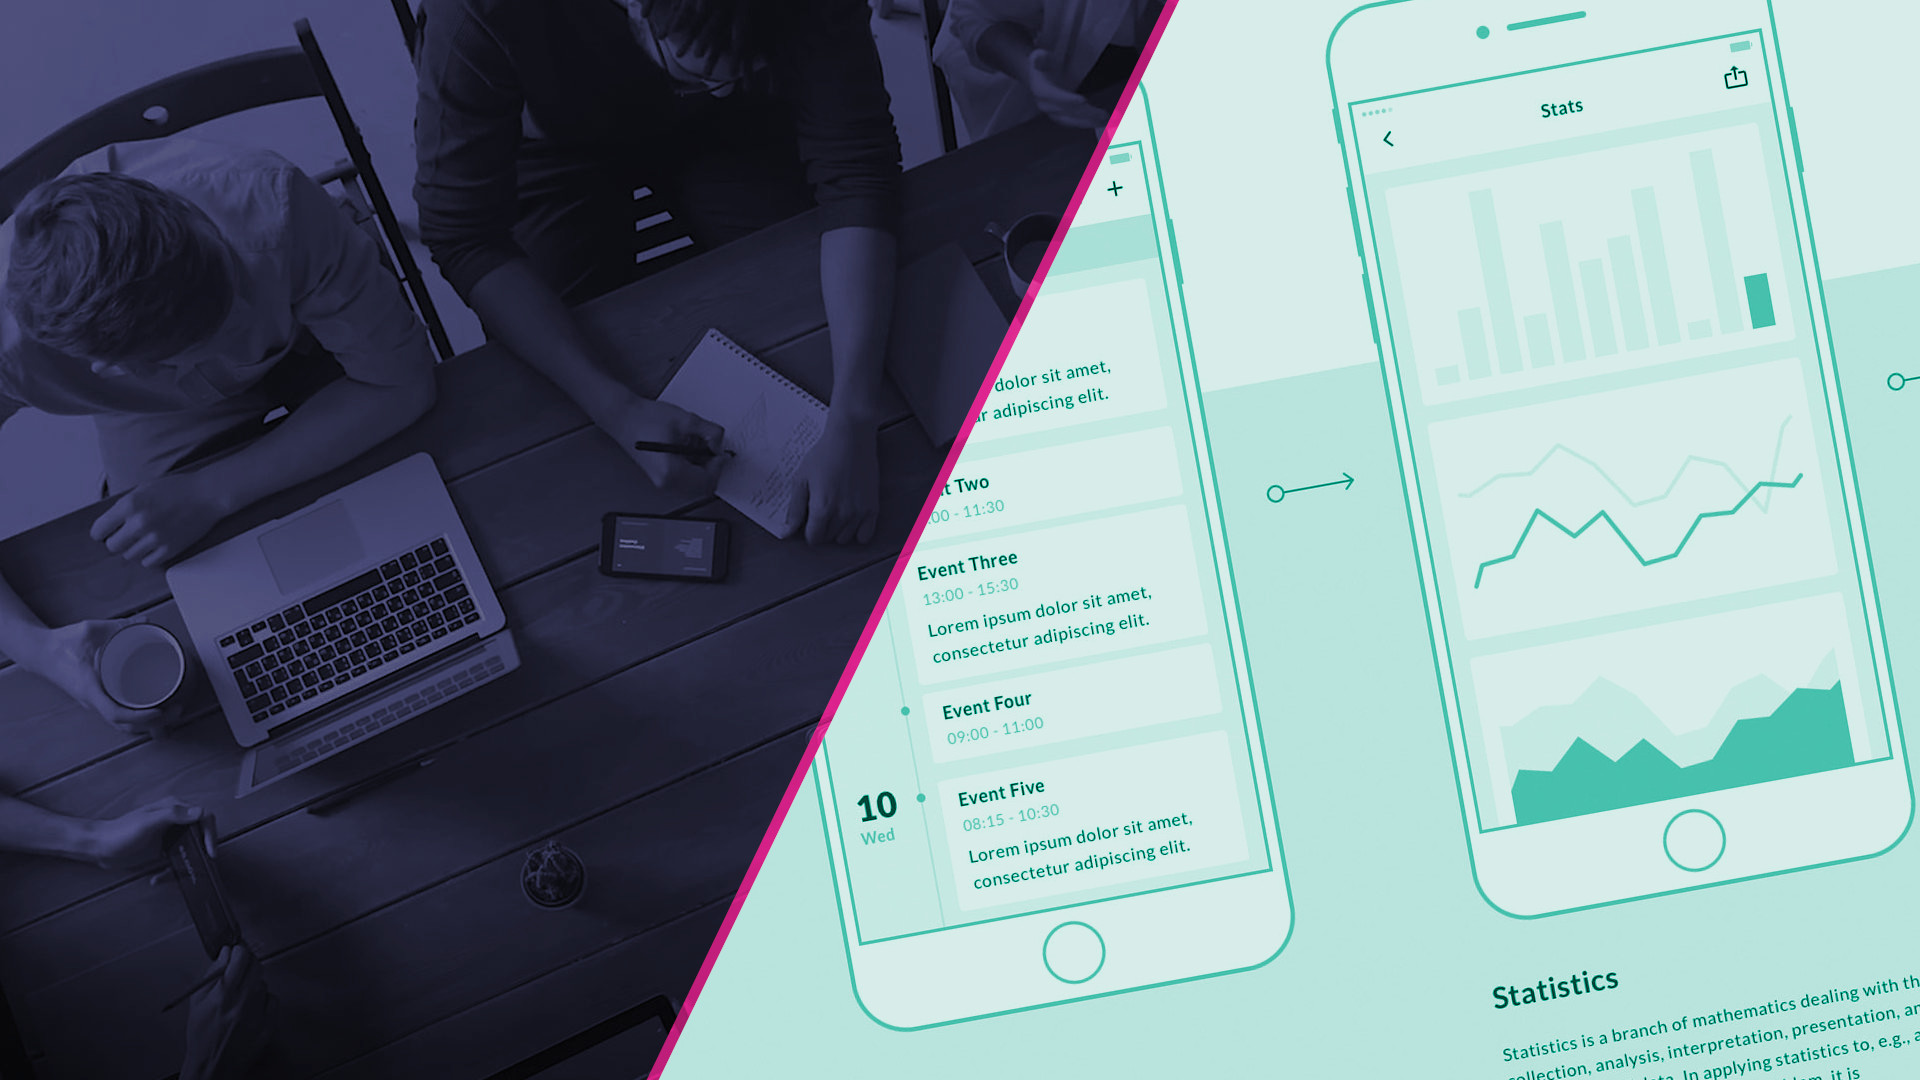
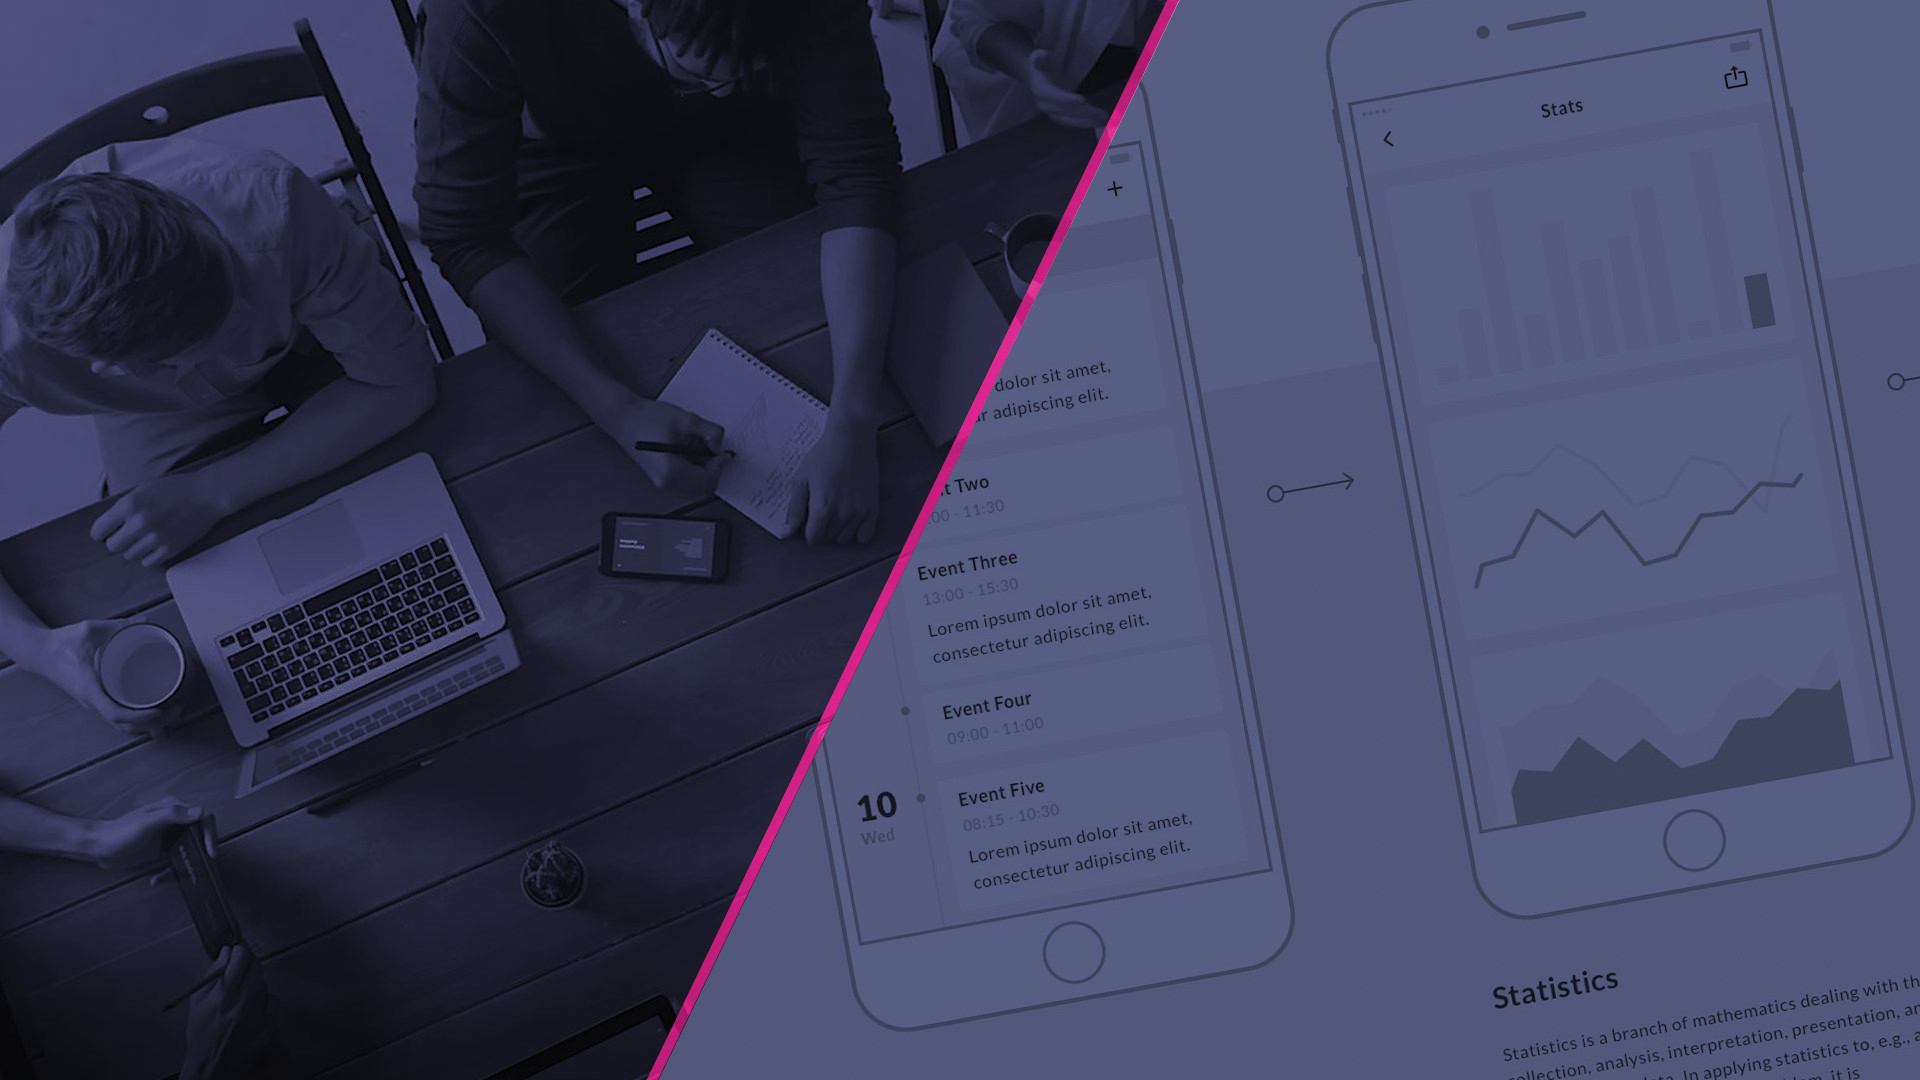
update bg

diff --git a/index.html b/index.html
@@ -1,1 +1,1 @@
-<!doctype html> <html lang=en> <head> <meta charset=utf-8> <meta content="width=device-width,initial-scale=1" name=viewport> <meta content=#333333 name=theme-color> <base href=/ > <link href=global.css rel=stylesheet> <link href="http://fonts.googleapis.com/css?family=Roboto" rel=stylesheet> <link href="http://fonts.googleapis.com/css?family=Nunito" rel=stylesheet> <link href=manifest.json rel=manifest crossorigin=use-credentials> <link href=favicon.png rel=icon type=image/png> <link href=client/main.186804049.css rel=stylesheet> <noscript id=sapper-head-start></noscript><title> Webaplic - Mobile sites, prototypes design, code development, </title><noscript id=sapper-head-end></noscript> </head> <body> <div id=sapper> <nav><figure class=svelte-cdgy8r><img alt=Webapplic class=svelte-cdgy8r src=webapplic.png></figure></nav> <nav><div class="svelte-hyhj0j fab"><button class="svelte-hyhj0j main"></button> <ul class=svelte-hyhj0j><li class=svelte-hyhj0j><a class=svelte-hyhj0j href=. aria-current=page><label class=svelte-hyhj0j for=opcao1>Welcome</label> <button class=svelte-hyhj0j id=opcao1>welcome </button></a></li> <li class=svelte-hyhj0j><a class=svelte-hyhj0j href=services><label class=svelte-hyhj0j for=opcao2>Services</label> <button class=svelte-hyhj0j id=opcao2>services </button></a></li> <li class=svelte-hyhj0j><a class=svelte-hyhj0j href=figma><label class=svelte-hyhj0j for=opcao3>Education</label> <button class=svelte-hyhj0j id=opcao3>education </button></a></li> <li class=svelte-hyhj0j><a class=svelte-hyhj0j href=contact rel=prefetch><label class=svelte-hyhj0j for=opcao4>Contact</label> <button class=svelte-hyhj0j id=opcao4>contact </button></a></ul></div></nav> <main class=svelte-i4kv9a> <div class="svelte-79co9y bg-video"></div> <h1 class=svelte-79co9y>Webapplic</h1> <div class="cursor svelte-1jxt921" style=--cursor-color:black><p class=svelte-79co9y>Mobile first, page speedy, PWA, SEO, landing page, dashboards, prototype design and data analisys. </div> <button class=svelte-79co9y id=contact onclick="window.location.href='services';">know more </button></main> <footer class=svelte-111pnve><ul class=svelte-111pnve><li class=svelte-111pnve><a class=svelte-111pnve href=. aria-current=page>welcome</a></li> <li class=svelte-111pnve><a class=svelte-111pnve href=services rel=prefetch>services</a></li> <li class=svelte-111pnve><a class=svelte-111pnve href=figma rel=prefetch>education</a></li> <li class=svelte-111pnve><a class=svelte-111pnve href=contact>contact</a></ul></footer></div> <script>__SAPPER__={baseUrl:"",preloaded:[void 0,{}]};if('serviceWorker' in navigator)navigator.serviceWorker.register('/service-worker.js');(function(){try{eval("async function x(){}");var main="/client/client.1d248697.js"}catch(e){main="/client/legacy/client.a1da2ca1.js"};var s=document.createElement("script");try{new Function("if(0)import('')")();s.src=main;s.type="module";s.crossOrigin="use-credentials";}catch(e){s.src="/client/shimport@1.0.1.js";s.setAttribute("data-main",main);}document.head.appendChild(s);}());</script> 
+<!doctype html> <html lang=en> <head> <meta charset=utf-8> <meta content="width=device-width,initial-scale=1" name=viewport> <meta content=#333333 name=theme-color> <base href=/ > <link href=global.css rel=stylesheet> <link href="http://fonts.googleapis.com/css?family=Roboto" rel=stylesheet> <link href="http://fonts.googleapis.com/css?family=Nunito" rel=stylesheet> <link href=manifest.json rel=manifest crossorigin=use-credentials> <link href=favicon.png rel=icon type=image/png> <link href=client/main.1933343254.css rel=stylesheet> <noscript id=sapper-head-start></noscript><title> Webaplic - Mobile sites, prototypes design, code development, </title><noscript id=sapper-head-end></noscript> </head> <body> <div id=sapper> <nav><figure class=svelte-cdgy8r><img alt=Webapplic class=svelte-cdgy8r src=webapplic.png></figure></nav> <nav><div class="svelte-hyhj0j fab"><button class="svelte-hyhj0j main"></button> <ul class=svelte-hyhj0j><li class=svelte-hyhj0j><a class=svelte-hyhj0j href=. aria-current=page><label class=svelte-hyhj0j for=opcao1>Welcome</label> <button class=svelte-hyhj0j id=opcao1>welcome </button></a></li> <li class=svelte-hyhj0j><a class=svelte-hyhj0j href=services><label class=svelte-hyhj0j for=opcao2>Services</label> <button class=svelte-hyhj0j id=opcao2>services </button></a></li> <li class=svelte-hyhj0j><a class=svelte-hyhj0j href=education><label class=svelte-hyhj0j for=opcao3>Education</label> <button class=svelte-hyhj0j id=opcao3>education </button></a></li> <li class=svelte-hyhj0j><a class=svelte-hyhj0j href=contact rel=prefetch><label class=svelte-hyhj0j for=opcao4>Contact</label> <button class=svelte-hyhj0j id=opcao4>contact </button></a></ul></div></nav> <main class=svelte-i4kv9a> <div class="svelte-79co9y bg-video"></div> <h1 class=svelte-79co9y>Webapplic</h1> <div class="cursor svelte-1jxt921" style=--cursor-color:black><p class=svelte-79co9y>Mobile first, PWA, SEO, page speedy, landing page, dashboards, prototype design and data analisys. </div> <button class=svelte-79co9y id=contact onclick="window.location.href='services';">know more </button></main> <footer class=svelte-111pnve><ul class=svelte-111pnve><li class=svelte-111pnve><a class=svelte-111pnve href=. aria-current=page>welcome</a></li> <li class=svelte-111pnve><a class=svelte-111pnve href=services rel=prefetch>services</a></li> <li class=svelte-111pnve><a class=svelte-111pnve href=education rel=prefetch>education</a></li> <li class=svelte-111pnve><a class=svelte-111pnve href=contact>contact</a></ul></footer></div> <script>__SAPPER__={baseUrl:"",preloaded:[void 0,{}]};if('serviceWorker' in navigator)navigator.serviceWorker.register('/service-worker.js');(function(){try{eval("async function x(){}");var main="/client/client.970864ed.js"}catch(e){main="/client/legacy/client.23562884.js"};var s=document.createElement("script");try{new Function("if(0)import('')")();s.src=main;s.type="module";s.crossOrigin="use-credentials";}catch(e){s.src="/client/shimport@1.0.1.js";s.setAttribute("data-main",main);}document.head.appendChild(s);}());</script> 

diff --git a/service-worker-index.html b/service-worker-index.html
@@ -1,1 +1,1 @@
-<!doctype html> <html lang=en> <head> <meta charset=utf-8> <meta content="width=device-width,initial-scale=1" name=viewport> <meta content=#333333 name=theme-color> <base href=/ > <link href=global.css rel=stylesheet> <link href="http://fonts.googleapis.com/css?family=Roboto" rel=stylesheet> <link href="http://fonts.googleapis.com/css?family=Nunito" rel=stylesheet> <link href=manifest.json rel=manifest crossorigin=use-credentials> <link href=favicon.png rel=icon type=image/png> <link href=client/main.186804049.css rel=stylesheet> <noscript id=sapper-head-start></noscript><noscript id=sapper-head-end></noscript> </head> <body> <div id=sapper> <nav><figure class=svelte-cdgy8r><img alt=Webapplic class=svelte-cdgy8r src=webapplic.png></figure></nav> <nav><div class="svelte-hyhj0j fab"><button class="svelte-hyhj0j main"></button> <ul class=svelte-hyhj0j><li class=svelte-hyhj0j><a class=svelte-hyhj0j href=.><label class=svelte-hyhj0j for=opcao1>Welcome</label> <button class=svelte-hyhj0j id=opcao1>welcome </button></a></li> <li class=svelte-hyhj0j><a class=svelte-hyhj0j href=services><label class=svelte-hyhj0j for=opcao2>Services</label> <button class=svelte-hyhj0j id=opcao2>services </button></a></li> <li class=svelte-hyhj0j><a class=svelte-hyhj0j href=figma><label class=svelte-hyhj0j for=opcao3>Education</label> <button class=svelte-hyhj0j id=opcao3>education </button></a></li> <li class=svelte-hyhj0j><a class=svelte-hyhj0j href=contact rel=prefetch><label class=svelte-hyhj0j for=opcao4>Contact</label> <button class=svelte-hyhj0j id=opcao4>contact </button></a></ul></div></nav> <main class=svelte-i4kv9a></main> <footer class=svelte-111pnve><ul class=svelte-111pnve><li class=svelte-111pnve><a class=svelte-111pnve href=.>welcome</a></li> <li class=svelte-111pnve><a class=svelte-111pnve href=services rel=prefetch>services</a></li> <li class=svelte-111pnve><a class=svelte-111pnve href=figma rel=prefetch>education</a></li> <li class=svelte-111pnve><a class=svelte-111pnve href=contact>contact</a></ul></footer></div> <script>__SAPPER__={baseUrl:"",preloaded:[void 0]};if('serviceWorker' in navigator)navigator.serviceWorker.register('/service-worker.js');(function(){try{eval("async function x(){}");var main="/client/client.1d248697.js"}catch(e){main="/client/legacy/client.a1da2ca1.js"};var s=document.createElement("script");try{new Function("if(0)import('')")();s.src=main;s.type="module";s.crossOrigin="use-credentials";}catch(e){s.src="/client/shimport@1.0.1.js";s.setAttribute("data-main",main);}document.head.appendChild(s);}());</script> 
+<!doctype html> <html lang=en> <head> <meta charset=utf-8> <meta content="width=device-width,initial-scale=1" name=viewport> <meta content=#333333 name=theme-color> <base href=/ > <link href=global.css rel=stylesheet> <link href="http://fonts.googleapis.com/css?family=Roboto" rel=stylesheet> <link href="http://fonts.googleapis.com/css?family=Nunito" rel=stylesheet> <link href=manifest.json rel=manifest crossorigin=use-credentials> <link href=favicon.png rel=icon type=image/png> <link href=client/main.1933343254.css rel=stylesheet> <noscript id=sapper-head-start></noscript><noscript id=sapper-head-end></noscript> </head> <body> <div id=sapper> <nav><figure class=svelte-cdgy8r><img alt=Webapplic class=svelte-cdgy8r src=webapplic.png></figure></nav> <nav><div class="svelte-hyhj0j fab"><button class="svelte-hyhj0j main"></button> <ul class=svelte-hyhj0j><li class=svelte-hyhj0j><a class=svelte-hyhj0j href=.><label class=svelte-hyhj0j for=opcao1>Welcome</label> <button class=svelte-hyhj0j id=opcao1>welcome </button></a></li> <li class=svelte-hyhj0j><a class=svelte-hyhj0j href=services><label class=svelte-hyhj0j for=opcao2>Services</label> <button class=svelte-hyhj0j id=opcao2>services </button></a></li> <li class=svelte-hyhj0j><a class=svelte-hyhj0j href=education><label class=svelte-hyhj0j for=opcao3>Education</label> <button class=svelte-hyhj0j id=opcao3>education </button></a></li> <li class=svelte-hyhj0j><a class=svelte-hyhj0j href=contact rel=prefetch><label class=svelte-hyhj0j for=opcao4>Contact</label> <button class=svelte-hyhj0j id=opcao4>contact </button></a></ul></div></nav> <main class=svelte-i4kv9a></main> <footer class=svelte-111pnve><ul class=svelte-111pnve><li class=svelte-111pnve><a class=svelte-111pnve href=.>welcome</a></li> <li class=svelte-111pnve><a class=svelte-111pnve href=services rel=prefetch>services</a></li> <li class=svelte-111pnve><a class=svelte-111pnve href=education rel=prefetch>education</a></li> <li class=svelte-111pnve><a class=svelte-111pnve href=contact>contact</a></ul></footer></div> <script>__SAPPER__={baseUrl:"",preloaded:[void 0]};if('serviceWorker' in navigator)navigator.serviceWorker.register('/service-worker.js');(function(){try{eval("async function x(){}");var main="/client/client.970864ed.js"}catch(e){main="/client/legacy/client.23562884.js"};var s=document.createElement("script");try{new Function("if(0)import('')")();s.src=main;s.type="module";s.crossOrigin="use-credentials";}catch(e){s.src="/client/shimport@1.0.1.js";s.setAttribute("data-main",main);}document.head.appendChild(s);}());</script> 

diff --git a/service-worker.js b/service-worker.js
@@ -1,1 +1,1 @@
-!function(){"use strict";const e=["client/services.319783cb.js","client/contact.0360ed84.js","client/index.aa499d27.js","client/index.b57c8d96.js","client/[slug].c5f7a1bd.js","client/figma.66956311.js","client/client.1d248697.js"].concat(["service-worker-index.html","bg1.jpg","bg2.jpg","bg3.jpg","favicon.png","global.css","logo-192.png","logo-512.png","manifest.json","webapplic.png"]),t=new Set(e);self.addEventListener("install",t=>{t.waitUntil(caches.open("cache1617850109532").then(t=>t.addAll(e)).then(()=>{self.skipWaiting()}))}),self.addEventListener("activate",e=>{e.waitUntil(caches.keys().then(async e=>{for(const t of e)"cache1617850109532"!==t&&await caches.delete(t);self.clients.claim()}))}),self.addEventListener("fetch",e=>{if("GET"!==e.request.method||e.request.headers.has("range"))return;const n=new URL(e.request.url);n.protocol.startsWith("http")&&(n.hostname===self.location.hostname&&n.port!==self.location.port||(n.host===self.location.host&&t.has(n.pathname)?e.respondWith(caches.match(e.request)):"only-if-cached"!==e.request.cache&&e.respondWith(caches.open("offline1617850109532").then(async t=>{try{const n=await fetch(e.request);return t.put(e.request,n.clone()),n}catch(n){const s=await t.match(e.request);if(s)return s;throw n}}))))})}();
+!function(){"use strict";const e=["client/index.7933c49a.js","client/Typewriter.0bd56c75.js","client/education.75aa1a8c.js","client/services.bae1947b.js","client/contact.c5ec2f12.js","client/index.48203f17.js","client/[slug].5ee0e2af.js","client/client.970864ed.js"].concat(["service-worker-index.html","bg1.jpg","bg2.jpg","bg3.jpg","favicon.png","global.css","logo-100.png","logo-192.png","logo-512.png","manifest.json","webapplic.png"]),t=new Set(e);self.addEventListener("install",t=>{t.waitUntil(caches.open("cache1620513578252").then(t=>t.addAll(e)).then(()=>{self.skipWaiting()}))}),self.addEventListener("activate",e=>{e.waitUntil(caches.keys().then(async e=>{for(const t of e)"cache1620513578252"!==t&&await caches.delete(t);self.clients.claim()}))}),self.addEventListener("fetch",e=>{if("GET"!==e.request.method||e.request.headers.has("range"))return;const n=new URL(e.request.url);n.protocol.startsWith("http")&&(n.hostname===self.location.hostname&&n.port!==self.location.port||(n.host===self.location.host&&t.has(n.pathname)?e.respondWith(caches.match(e.request)):"only-if-cached"!==e.request.cache&&e.respondWith(caches.open("offline1620513578252").then(async t=>{try{const n=await fetch(e.request);return t.put(e.request,n.clone()),n}catch(n){const c=await t.match(e.request);if(c)return c;throw n}}))))})}();
